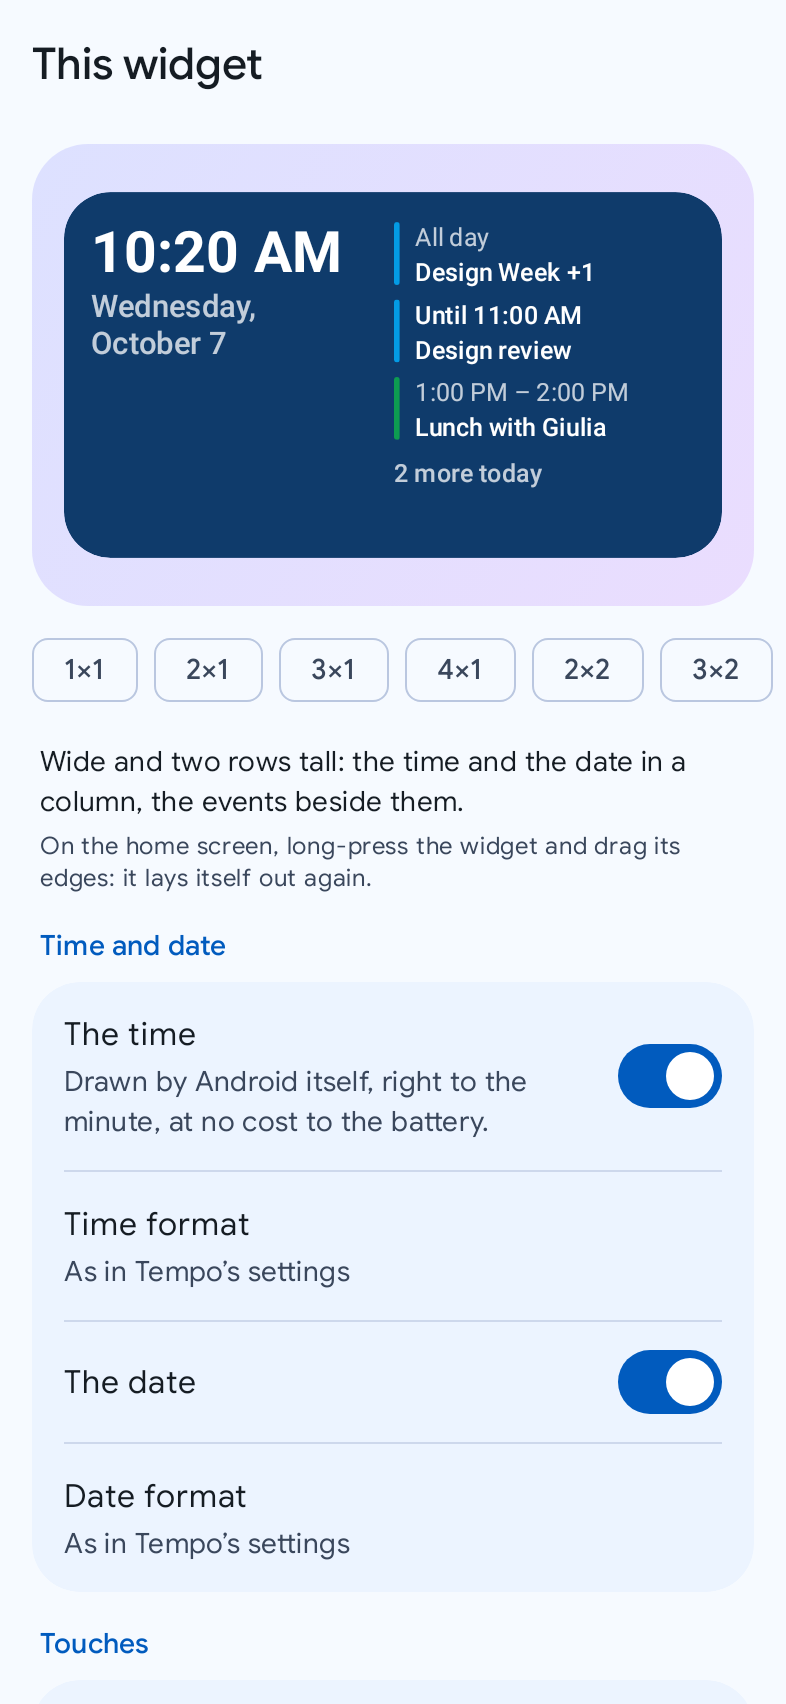
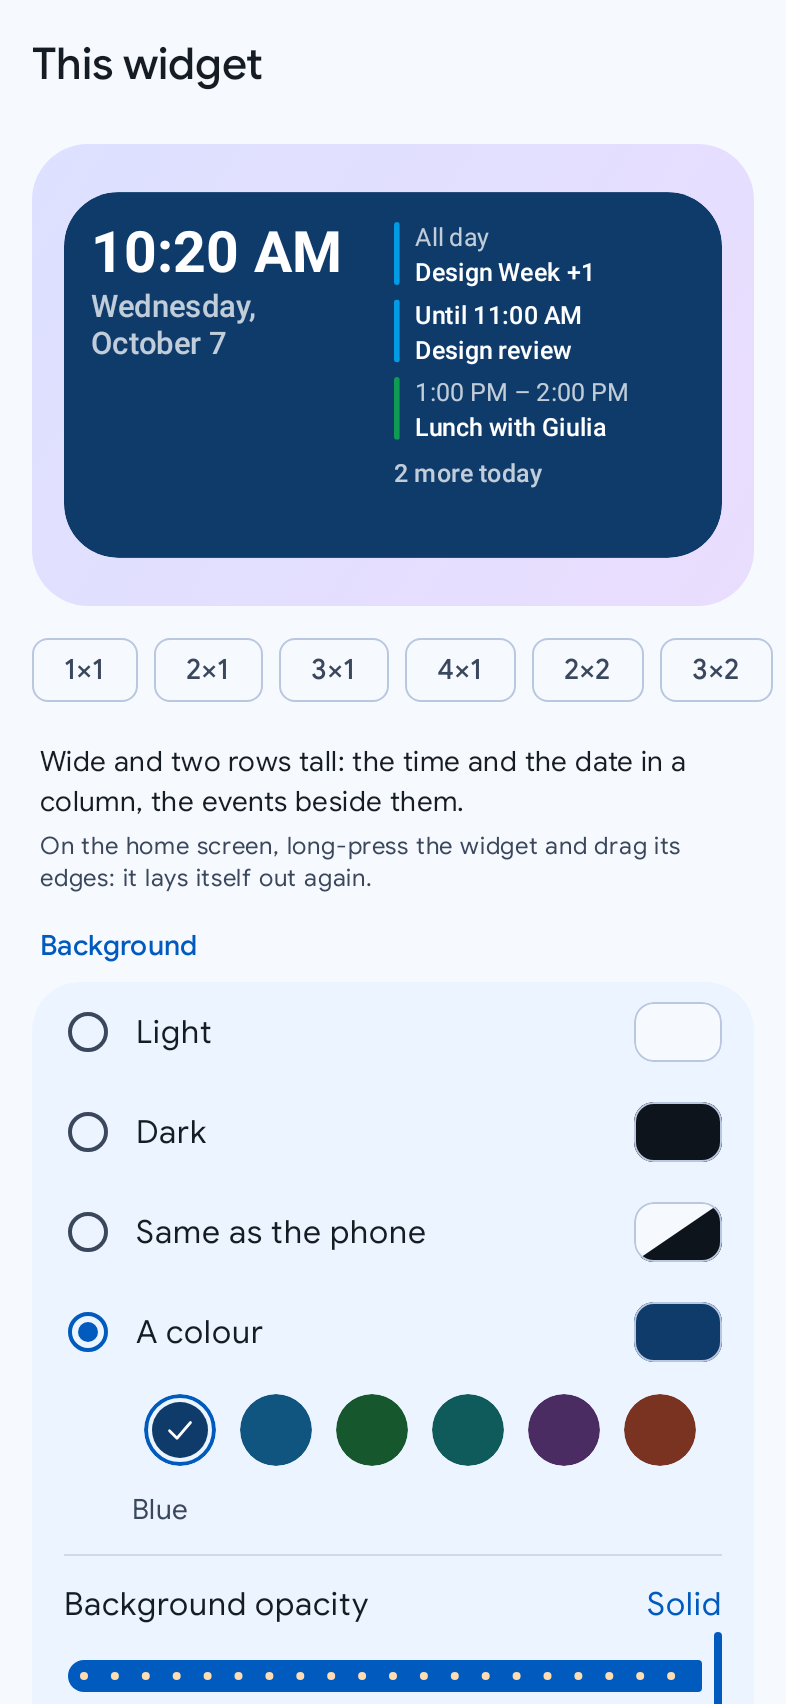
Put the widget settings in the family's one order
The background now comes first after the preview, then the time and
date, the content and the touches (they ran clock and date, touches,
background, content). «Reset this widget», outlined in the error colour
over «Done», puts the card back as it was placed. The Italian resize
hint reads word for word as on the other widgets' settings. The README's
widget settings picture is drawn again.

Claude-Session: https://claude.ai/code/session_01VB58xLcSMrcpA5XXTKcf47

diff --git a/widget/src/main/kotlin/com/callbackdev/tempo/widget/config/WidgetConfigScreen.kt b/widget/src/main/kotlin/com/callbackdev/tempo/widget/config/WidgetConfigScreen.kt
@@ -18,9 +18,11 @@ import androidx.compose.foundation.shape.CircleShape
 import androidx.compose.foundation.shape.RoundedCornerShape
 import androidx.compose.foundation.verticalScroll
 import androidx.compose.material3.Button
+import androidx.compose.material3.ButtonDefaults
 import androidx.compose.material3.ExperimentalMaterial3Api
 import androidx.compose.material3.Icon
 import androidx.compose.material3.MaterialTheme
+import androidx.compose.material3.OutlinedButton
 import androidx.compose.material3.RadioButton
 import androidx.compose.material3.Scaffold
 import androidx.compose.material3.Slider
@@ -85,10 +87,12 @@ object WidgetConfigTags {
 private enum class ConfigDialog { CLOCK_FORMAT, DATE_STYLE, HEADER_TAP, EVENT_TAP }
 
 /**
- * One widget's settings, reached from the launcher's reconfigure flow: the card at the top, at the sizes it can be given;
- * then what its time and date show, what its touches open, what it is painted on and what it
- * carries. Every choice is saved as it is made and repaints this one card; «Done» only closes the
- * door.
+ * One widget's settings, reached from the launcher's reconfigure flow: the card at the top, at the
+ * sizes it can be given; then what it is painted on, what its time and date show, what else it
+ * carries, and what its touches open (16 Oct 2026: the background comes first after the preview,
+ * as on every widget's settings of the household, and the touches, which change nothing the
+ * preview can show, go last). Every choice is saved as it is made and repaints this one card;
+ * «Reset this widget» puts the card back as it was placed, «Done» only closes the door.
  *
  * A choice that cannot work on this phone is not offered: no clock app, no "opens your clock app"
  * (unless it was already chosen, so the screen says what the card does); no calendar app, no
@@ -128,6 +132,13 @@ fun WidgetConfigScreen(
         ) {
             WidgetPreviewSection(kind, model?.copy(look = look), placed)
 
+            GroupHeader(stringResource(R.string.widget_config_background))
+            SettingsGroup {
+                BackgroundChoices(look, settings, onLook)
+                GroupDivider()
+                OpacityRow(look.opacityPct, onOpacityDrag, onOpacityDone)
+            }
+
             GroupHeader(stringResource(R.string.widget_config_clock_group))
             SettingsGroup {
                 SwitchRow(
@@ -158,33 +169,6 @@ fun WidgetConfigScreen(
                         onClick = { dialog = ConfigDialog.DATE_STYLE },
                     )
                 }
-            }
-
-            GroupHeader(stringResource(R.string.widget_config_touches))
-            SettingsGroup {
-                if (look.showClock || look.showDate) {
-                    ValueRow(
-                        label = stringResource(R.string.widget_config_header_tap),
-                        value = headerTapLabel(look.headerTap),
-                        onClick = { dialog = ConfigDialog.HEADER_TAP },
-                        modifier = Modifier.testTag(WidgetConfigTags.HEADER_TAP),
-                    )
-                    GroupDivider()
-                }
-                ValueRow(
-                    label = stringResource(R.string.widget_config_event_tap),
-                    value = eventTapLabel(look.eventTap),
-                    onClick = { dialog = ConfigDialog.EVENT_TAP },
-                    modifier = Modifier.testTag(WidgetConfigTags.EVENT_TAP),
-                    enabled = doors.canOpenEvent || look.eventTap == EventTap.CALENDAR,
-                )
-            }
-
-            GroupHeader(stringResource(R.string.widget_config_background))
-            SettingsGroup {
-                BackgroundChoices(look, settings, onLook)
-                GroupDivider()
-                OpacityRow(look.opacityPct, onOpacityDrag, onOpacityDone)
             }
 
             GroupHeader(stringResource(R.string.widget_config_content))
@@ -221,9 +205,37 @@ fun WidgetConfigScreen(
                 }
             }
 
+            GroupHeader(stringResource(R.string.widget_config_touches))
+            SettingsGroup {
+                if (look.showClock || look.showDate) {
+                    ValueRow(
+                        label = stringResource(R.string.widget_config_header_tap),
+                        value = headerTapLabel(look.headerTap),
+                        onClick = { dialog = ConfigDialog.HEADER_TAP },
+                        modifier = Modifier.testTag(WidgetConfigTags.HEADER_TAP),
+                    )
+                    GroupDivider()
+                }
+                ValueRow(
+                    label = stringResource(R.string.widget_config_event_tap),
+                    value = eventTapLabel(look.eventTap),
+                    onClick = { dialog = ConfigDialog.EVENT_TAP },
+                    modifier = Modifier.testTag(WidgetConfigTags.EVENT_TAP),
+                    enabled = doors.canOpenEvent || look.eventTap == EventTap.CALENDAR,
+                )
+            }
+
+            // The one control that undoes the others: outlined, in the error colour, at the foot.
+            OutlinedButton(
+                onClick = { onLook(WidgetLook()) },
+                colors = ButtonDefaults.outlinedButtonColors(contentColor = MaterialTheme.colorScheme.error),
+                modifier = Modifier.fillMaxWidth().padding(start = 16.dp, end = 16.dp, top = 24.dp),
+            ) {
+                Text(stringResource(R.string.widget_config_reset))
+            }
             Button(
                 onClick = onDone,
-                modifier = Modifier.fillMaxWidth().padding(start = 16.dp, end = 16.dp, top = 24.dp),
+                modifier = Modifier.fillMaxWidth().padding(start = 16.dp, end = 16.dp, top = 12.dp),
             ) {
                 Text(stringResource(R.string.widget_config_done))
             }

diff --git a/widget/src/test/kotlin/com/callbackdev/tempo/widget/config/WidgetConfigScreenTest.kt b/widget/src/test/kotlin/com/callbackdev/tempo/widget/config/WidgetConfigScreenTest.kt
@@ -16,6 +16,7 @@ import androidx.compose.ui.test.onNodeWithTag
 import androidx.compose.ui.test.onNodeWithText
 import androidx.compose.ui.test.onRoot
 import androidx.compose.ui.test.performClick
+import androidx.compose.ui.test.performScrollTo
 import androidx.compose.ui.test.performScrollToNode
 import androidx.test.ext.junit.runners.AndroidJUnit4
 import com.callbackdev.tempo.core.designsystem.theme.TempoTheme
@@ -95,7 +96,7 @@ class WidgetConfigScreenTest {
     fun `a card's own clock format is kept, and Tempo's is the default`() {
         show(WidgetKind.WORDS)
         compose.onAllNodesWithText("As in Tempo’s settings").onFirst().assertExists()
-        compose.onNodeWithText("Time format").performClick()
+        compose.onNodeWithText("Time format").performScrollTo().performClick()
         compose.onNodeWithText("12-hour").performClick()
         assertThat(look.clockFormat).isEqualTo(ClockFormat.H12)
     }

diff --git a/PLANNING.md b/PLANNING.md
@@ -633,6 +633,9 @@ Each phase ends with a merged PR, green CI and its acceptance criteria met. Phas
 - **13 Oct 2026, after 1.0.** **The widgets' type scale** (owner, the family's widget review: "keep in mind that some changes may be needed in the other apps too"). The family's cards print their fixed sizes in one scale of six steps, each a role (`WidgetType`, in `:core:domain`: caption 11, label 13, body 16, title 22, display 30, hero 34), so a list's row, a note or a card's message is one size on every card of every app; `WidgetTypeTest` holds every fixed size to a step. On «Agenda» every line of the list is the label step now: the title 14 to 13 (Medium, over its 13 sp time, sorted by weight and ink as before), the section heading and the footer 12 to 13, the note 14 to 13. «In words»'s note goes 14 to 13; a card's message and hint 14 and 12 to 16 and 13. The clocks and «In words»'s title are sized to the grant and step down to fit, so their ladders are not steps; a ladder's first choice is one wherever it exists (the dates and the time in words at 16, the tall title at 22). `WidgetFitTest` still passes at every form, both languages and three text sizes; no reference grant shows a row fewer. The README's widgets and widget settings pictures are drawn again. (ADR 0003, decision 10)
 
 - **13 Oct 2026, after 1.0.** **The launcher's corner** (owner, the family's widget review). A card's corner is the one the launcher gives its widgets (`system_app_widget_background_radius`), in the card, the settings screen's preview and the picker's preview, where it was a fixed 24 dp: on stock Android 16 that is the same 24 dp, so nothing moves there, and on a phone whose launcher sets its own the card now matches the widgets beside it. (ADR 0003, decision 11)
+
+- **16 Oct 2026, after 1.0.** **The widget settings, in the family's one order** (owner, the family's review of the widget settings screens: "layout and style must be uniform", each app keeping its own settings). The groups now run as on every widget's settings of the family: where the card's data comes from first (Tempo has no such choice per card), then the background, then what the card carries (the time and the date, then the all-day events and the days ahead), then the touches, which change nothing the preview can show. They ran clock and date, touches, background, content. «Reset this widget», outlined in the error colour over «Done», puts the card back as it was placed (`WidgetLook()`), as on the others' settings. The resize hint reads «Sulla schermata Home tieni premuto…», word for word the others'. The choices that open a dialog (the time's format, the date's, the two touches) stay dialogs, as in Tempo's own Settings; the curly apostrophe stays too, Tempo's typography everywhere, where the other apps write a straight one. The README's widget settings picture is drawn again.
+
 ### Open
 
 None. A question that comes up during a phase is written here, with its options, before it is built.
